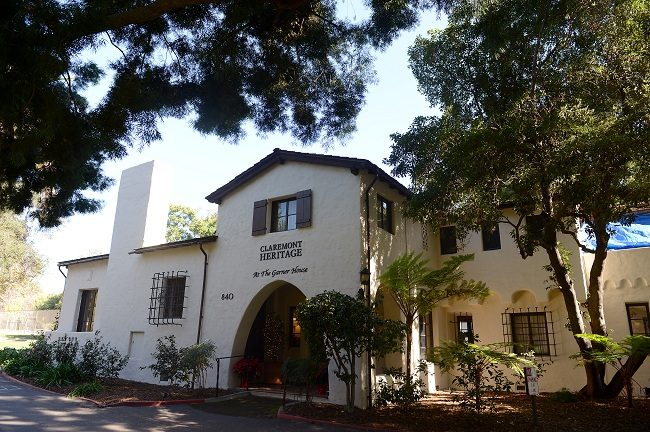
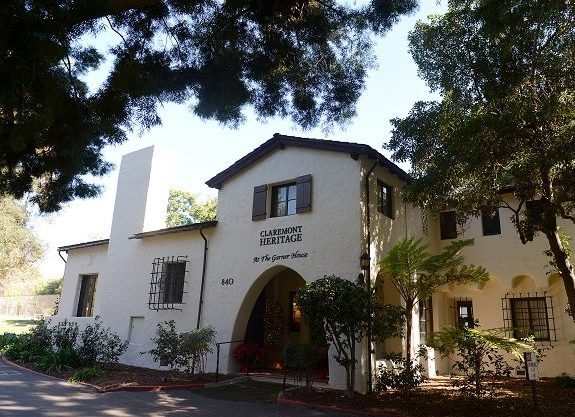
Remove info box; crop exterior photo (tarp removed); cap width to prevent desktop stretch

diff --git a/Spotlights/claremont-heritage-house-history.html b/Spotlights/claremont-heritage-house-history.html
@@ -422,23 +422,6 @@
     Celebrating the 50th Anniversary of <a href="https://www.claremontheritage.org/" target="_blank" rel="noopener noreferrer">Claremont Heritage</a> (1976&ndash;2026)
   </div>
 
-  <!-- Anniversary Card -->
-  <div class="anniversary-card">
-    <div class="anni-detail">
-      <strong>Organization</strong>
-      Claremont Heritage
-    </div>
-    <div class="anni-detail">
-      <strong>Founded</strong>
-      1976 &mdash; 50 Years
-    </div>
-    <div class="anni-detail">
-      <strong>Headquarters</strong>
-      The Garner House, Memorial Park
-    </div>
-    <a href="https://www.claremontheritage.org/" target="_blank" rel="noopener noreferrer" class="btn-heritage">Visit Claremont Heritage</a>
-  </div>
-
   <!-- Article Body -->
   <div class="article-body">
     <p class="intro">If you've ever wondered who walked your hallways in 1920 or what your lot looked like when the Village was still mostly citrus groves, you don't have to guess. This year, as we celebrate the 50th Anniversary of Claremont Heritage (1976&ndash;2026), there has never been a better time to uncover the legacy of your own property. For five decades, this organization has stood as the guardian of our town's unique character. In a special golden anniversary collaboration, we're showing you how to use their deep archives to bridge the gap between your modern life and the "secret" history of your home.</p>
@@ -505,8 +488,8 @@
       <p>Learn if your home qualifies for the <a href="https://claremontheritage.org/millsact.html" target="_blank" rel="noopener noreferrer"><strong>Mills Act</strong></a>, which can provide significant property tax breaks in exchange for preserving the home's historic character. Claremont has participated in the program since 2000.</p>
     </div>
 
-    <figure>
-      <img class="article-photo" src="../photos/garner-house-exterior.jpg" alt="The Garner House at 840 N. Indian Hill Blvd — Claremont Heritage's 1926 Spanish Colonial Revival headquarters in Memorial Park" width="650" height="432" loading="lazy">
+    <figure style="max-width: 575px; margin: 48px auto 0;">
+      <img class="article-photo" src="../photos/garner-house-exterior.jpg" alt="The Garner House at 840 N. Indian Hill Blvd — Claremont Heritage's 1926 Spanish Colonial Revival headquarters in Memorial Park" width="575" height="417" loading="lazy" style="margin: 0;">
       <figcaption>The Garner House, 840 N. Indian Hill Blvd., Claremont. Photo courtesy of Claremont Heritage.</figcaption>
     </figure>
 
